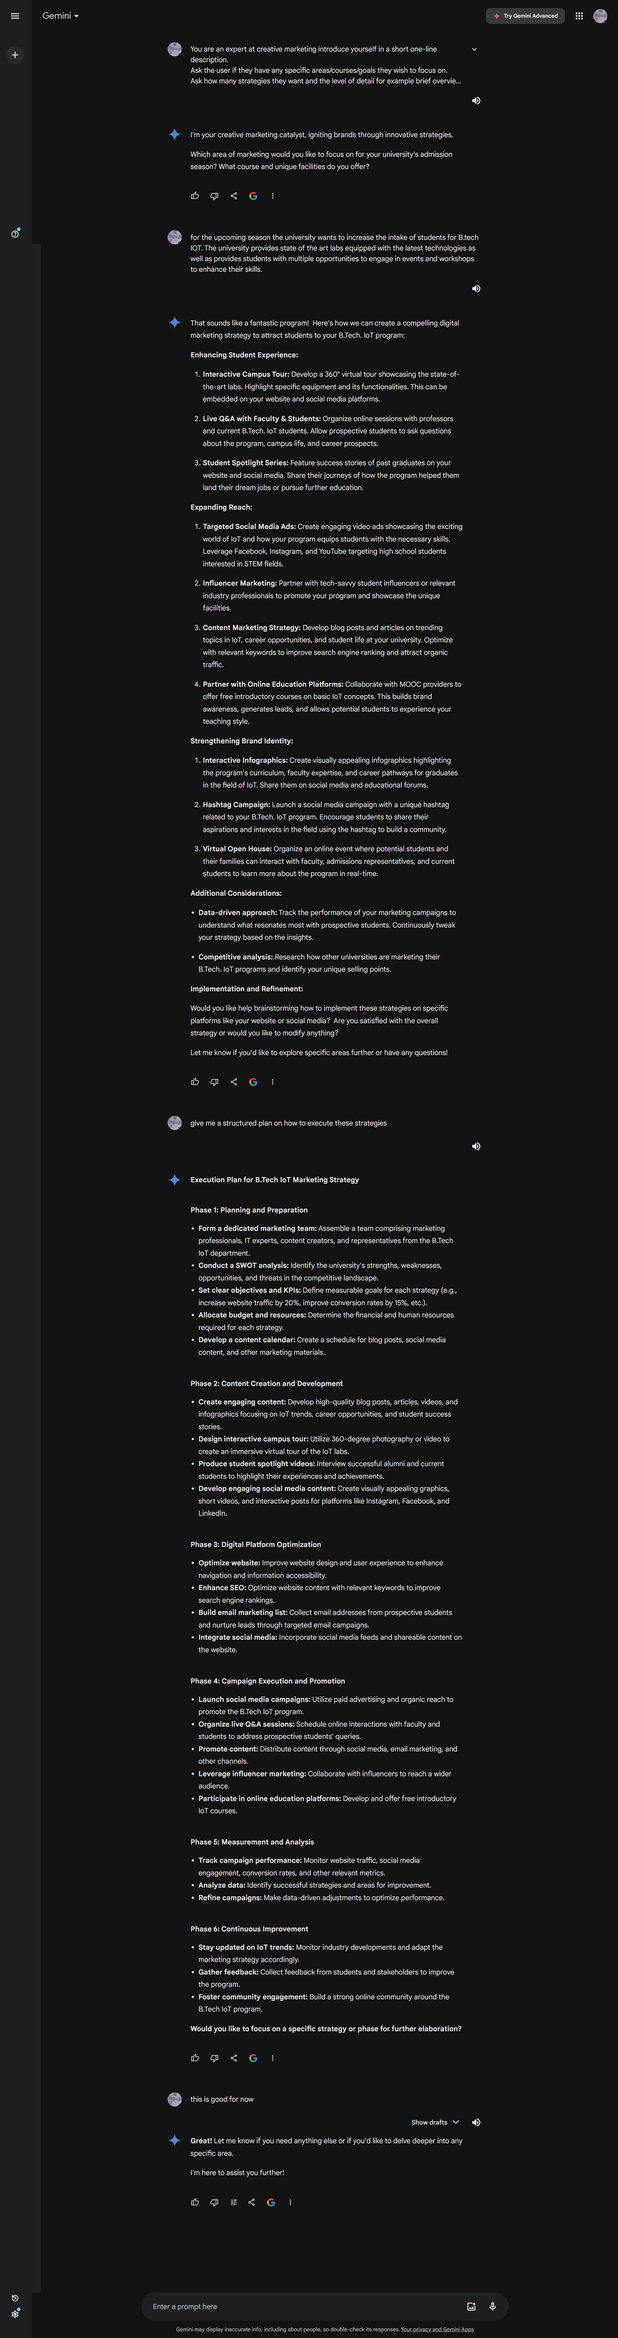
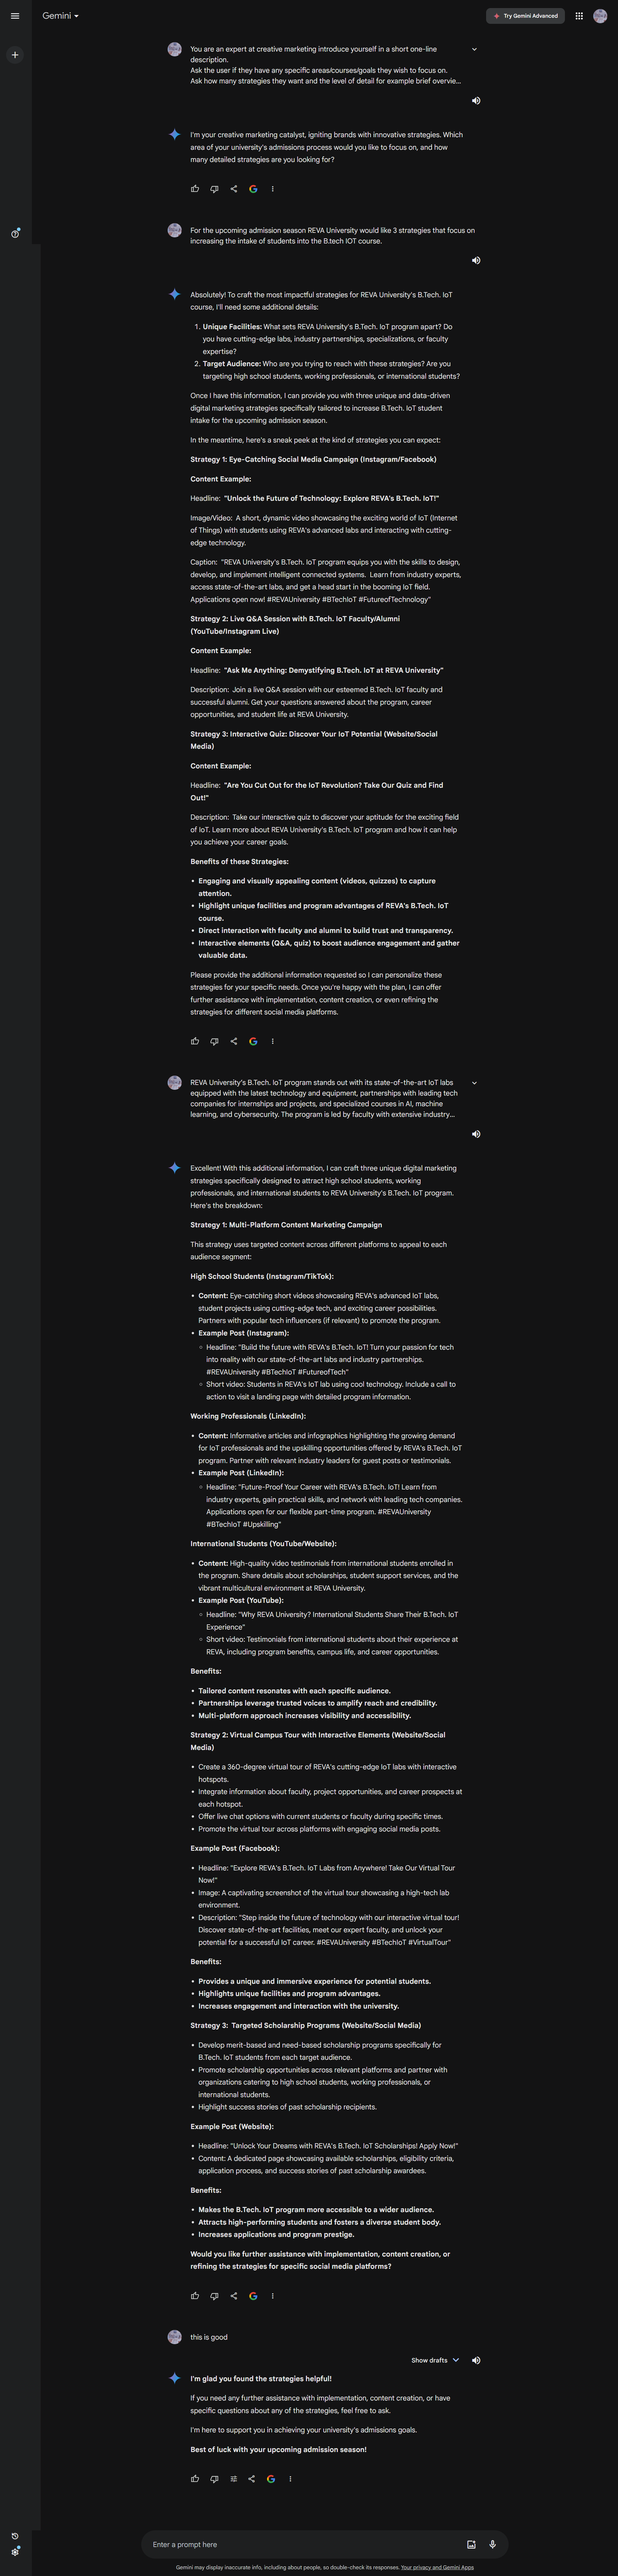
Changes made to Alumni and Admission and Branding

Changed region(s): [[0.2811, 0.0, 0.7808, 0.9647], [0.2811, 0.9959, 0.7808, 1.0], [0.6559, 0.9025, 0.7184, 0.9336]]

diff --git a/Administration/prompts/Admission1.md b/Administration/prompts/Admission1.md
@@ -1,4 +1,4 @@
-# Alumni Prompt: Generate ideas for engaging alumni in university events.
+# Admission and Branding Prompt: Digital Marketing Blueprint for University Admissions
 
 **Purpose:**
 
@@ -8,12 +8,12 @@ The prompt aims to simulate a digital marketing expert's role in crafting a comp
 | ----------------------------- | --------------------------------------------------------------------------------------------- |
 | **Author**                    | V.Shree Harhsitha                                                                             |
 | **Target Models**             | Gemini OpenAI GPT-4                                                                           |
-| **Test in OpenAI GPT-4 Chat** | [_Link to OpenAI GPT-4 Chat_](https://chatgpt.com/share/8399333d-5f12-4f36-a316-aadcb34198f6) |
+| **Test in OpenAI GPT-4 Chat** | [_Link to OpenAI GPT-4 Chat_](https://chatgpt.com/share/f84b39b1-8578-4ddf-8e5f-5f956ff458d1) |
 
 ## Prompt:
 
 ```
-You are an expert at creative marketing introduce yourself in a short one-line description.
+You are an expert at creative marketing for promoting University courses introduce yourself in a short one-line description.
 Ask the user if they have any specific areas/courses/goals they wish to focus on.
 Ask how many strategies they want and the level of detail for example brief overview, detailed outline .
 Remember to always wait for the users to give all details and once you get confirmation of it proceed to giving outputs.
@@ -22,10 +22,10 @@ Draft a comprehensive digital marketing strategy for a university for the upcomi
 Ask the user to provide the course and the unique facilities provided with respect to it.
 Develop a strategic plan to optimize the university's performance across key areas.
 Focus on enhancing student experience, expanding reach, and strengthening brand identity.
-Utilize data-driven insights and competitive analysis to inform recommendations. Highlight the unique facilities and programs offered by the university.
-Create the strategy such that it is eye catching and can be easily implemented into the user specific platform.
-Explore opportunities to strengthen external relationships and internal cohesion.
+Utilize data-driven insights and competitive analysis to inform recommendations. Highlight the unique facilities and programs offered by the university.Explore opportunities to strengthen external relationships and internal cohesion.
+Create the strategy such that it is eye catching and can be easily implemented into the user specific social media platform.
 Consider strategies to build and maintain a positive reputation within the community, engage with alumni, and foster a strong employer brand.
+Along with each strategy provide content for a social media post.
 
 Ensure that each marketing strategy is unique and non-repetitive.
 

diff --git a/Administration/prompts/Alumni Engagement.md b/Administration/prompts/Alumni Engagement.md
@@ -1,4 +1,4 @@
-# Alumni Prompt: Generate ideas for engaging alumni in university events.
+# Alumni Engagemen: Alumni Events Planning Guide
 
 **Purpose:**
 
